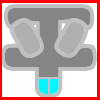
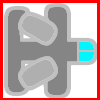
canvas remake

diff --git a/hunter.js b/hunter.js
@@ -10,6 +10,7 @@
     const fps = 30;
     const diffT = 1;
     const playField = getElem('dv');
+    const field = getElem('ui');
     var mtro, mtrb, sc, mtrhp;
     const width = 1000,
         height = 540;
@@ -22,6 +23,14 @@
         existBoss = false;
     var userName = '';
     var table = getElem("rank");
+    var imageMap = []
+
+    field.width = width
+    field.height = height
+    window.addEventListener('resize', (s, e) => {
+        field.width = width
+        field.height = height
+    })
 
     function getElem(s) {
         return document.getElementById(s);
@@ -87,14 +96,13 @@
     }
 
     function removeobj(arr, i) {
-        arr[i].inst.remove();
+        //arr[i].inst.remove();
         arr[i] = null;
     }
 
     function removeall(arr, num) {
         for (let i = 0; i < num; i++) {
             if (arr[i] != null) {
-                arr[i].inst.remove();
                 arr[i] = null;
             }
         }
@@ -102,8 +110,8 @@
 
     function mouseTrack() {
         document.addEventListener('mousemove', function (e) {
-            let x = e.pageX;
-            let y = e.pageY;
+            let x = e.pageX - field.getBoundingClientRect().x
+            let y = e.pageY - field.getBoundingClientRect().y
             if (x < 0)
                 x = 0;
             if (x > width)
@@ -132,7 +140,7 @@
     }
 
     class Entity {
-        constructor(_name, _w, _h, _picsrc, _class, _health, _speed) {
+        constructor(_name, _w, _h, _picsrc, _class, _health, _speed, _imgTransform = undefined) {
             this.name = _name;
             this.inst = null;
             this.parentObj = null;
@@ -146,26 +154,42 @@
             this.class = _class;
             this.health = _health;
             this.speed = _speed;
+            this.imgTransform = _imgTransform
         }
         appendTo() {
-            this.inst = document.createElement('img');
+
+
+            /*this.inst = document.createElement('img');
             this.inst.src = this.picsrc;
             this.inst.style.position = 'absolute';
             this.inst.className = this.class;
-            playField.appendChild(this.inst);
+            playField.appendChild(this.inst);*/
             this.drawPos();
         }
         drawPos() {
-            this.inst.style.left = String(this.pos.x - this.w / 2) + 'px';
+            if (imageMap[this.picsrc] == undefined) {
+                let img = new Image()
+                img.src = this.picsrc
+                img.className += this.class
+                img.style.width = String(this.w) + 'px'
+                img.style.height = String(this.h) + 'px'
+                imageMap[this.picsrc] = img
+            }
+
+            let context = ui.getContext("2d")
+            context.drawImage(imageMap[this.picsrc], 0, 0, imageMap[this.picsrc].width, imageMap[this.picsrc].height, this.pos.x - this.w / 2, this.pos.y - this.h / 2
+                , this.w, this.h)
+
+            /*this.inst.style.left = String(this.pos.x - this.w / 2) + 'px';
             this.inst.style.top = String(this.pos.y - this.h / 2) + 'px';
             this.inst.style.width = String(this.w) + 'px';
-            this.inst.style.height = String(this.h) + 'px';
+            this.inst.style.height = String(this.h) + 'px';*/
         }
     }
 
     class Plane extends Entity {
         constructor() {
-            super('Plane', 100, 100, 'img/plane.png', 'PlaneRight', planeHealthMax, 10);
+            super('Plane', 100, 100, 'img/plane.png', 'PlaneRight', planeHealthMax, 10)
             this.ctrlMode = 1; //1:mouse 2:keyboard
             this.bulletnum = planeBulletMax;
             this.tickperbullet = 5;
@@ -574,7 +598,7 @@
             });
             //plane with shield
             Game.Bumpevent(plane, 1, all_sd, sdn, function (arr1, arr2, i, j) {
-                arr1[i].inst.src = 'img/plane_wudi.png';
+                arr1[i].picsrc = 'img/plane_wudi.png';
                 arr1[i].wuditick = gametick;
                 arr1[i].wudi = true;
                 removeobj(arr2, j);
@@ -725,7 +749,7 @@
             //judge wudi
             if (gametick - plane[0].wuditick >= 5 * fps) {
                 plane[0].wudi = false;
-                plane[0].inst.src = 'img/plane.png';
+                plane[0].picsrc = 'img/plane.png';
             }
             score += 0.01 * Math.sqrt(difficulty);
             if (score >= boss_num * 2000 + 2000) {
@@ -749,6 +773,10 @@
             }
         }
         static Draw() {
+            let ctx = ui.getContext("2d")
+            ctx.fillStyle = 'white'
+            ctx.fillRect(0, 0, width, height)
+
             plane[0].drawPos();
             for (let i = 0; i < vegn; i++) {
                 all_veg[i].drawPos();
